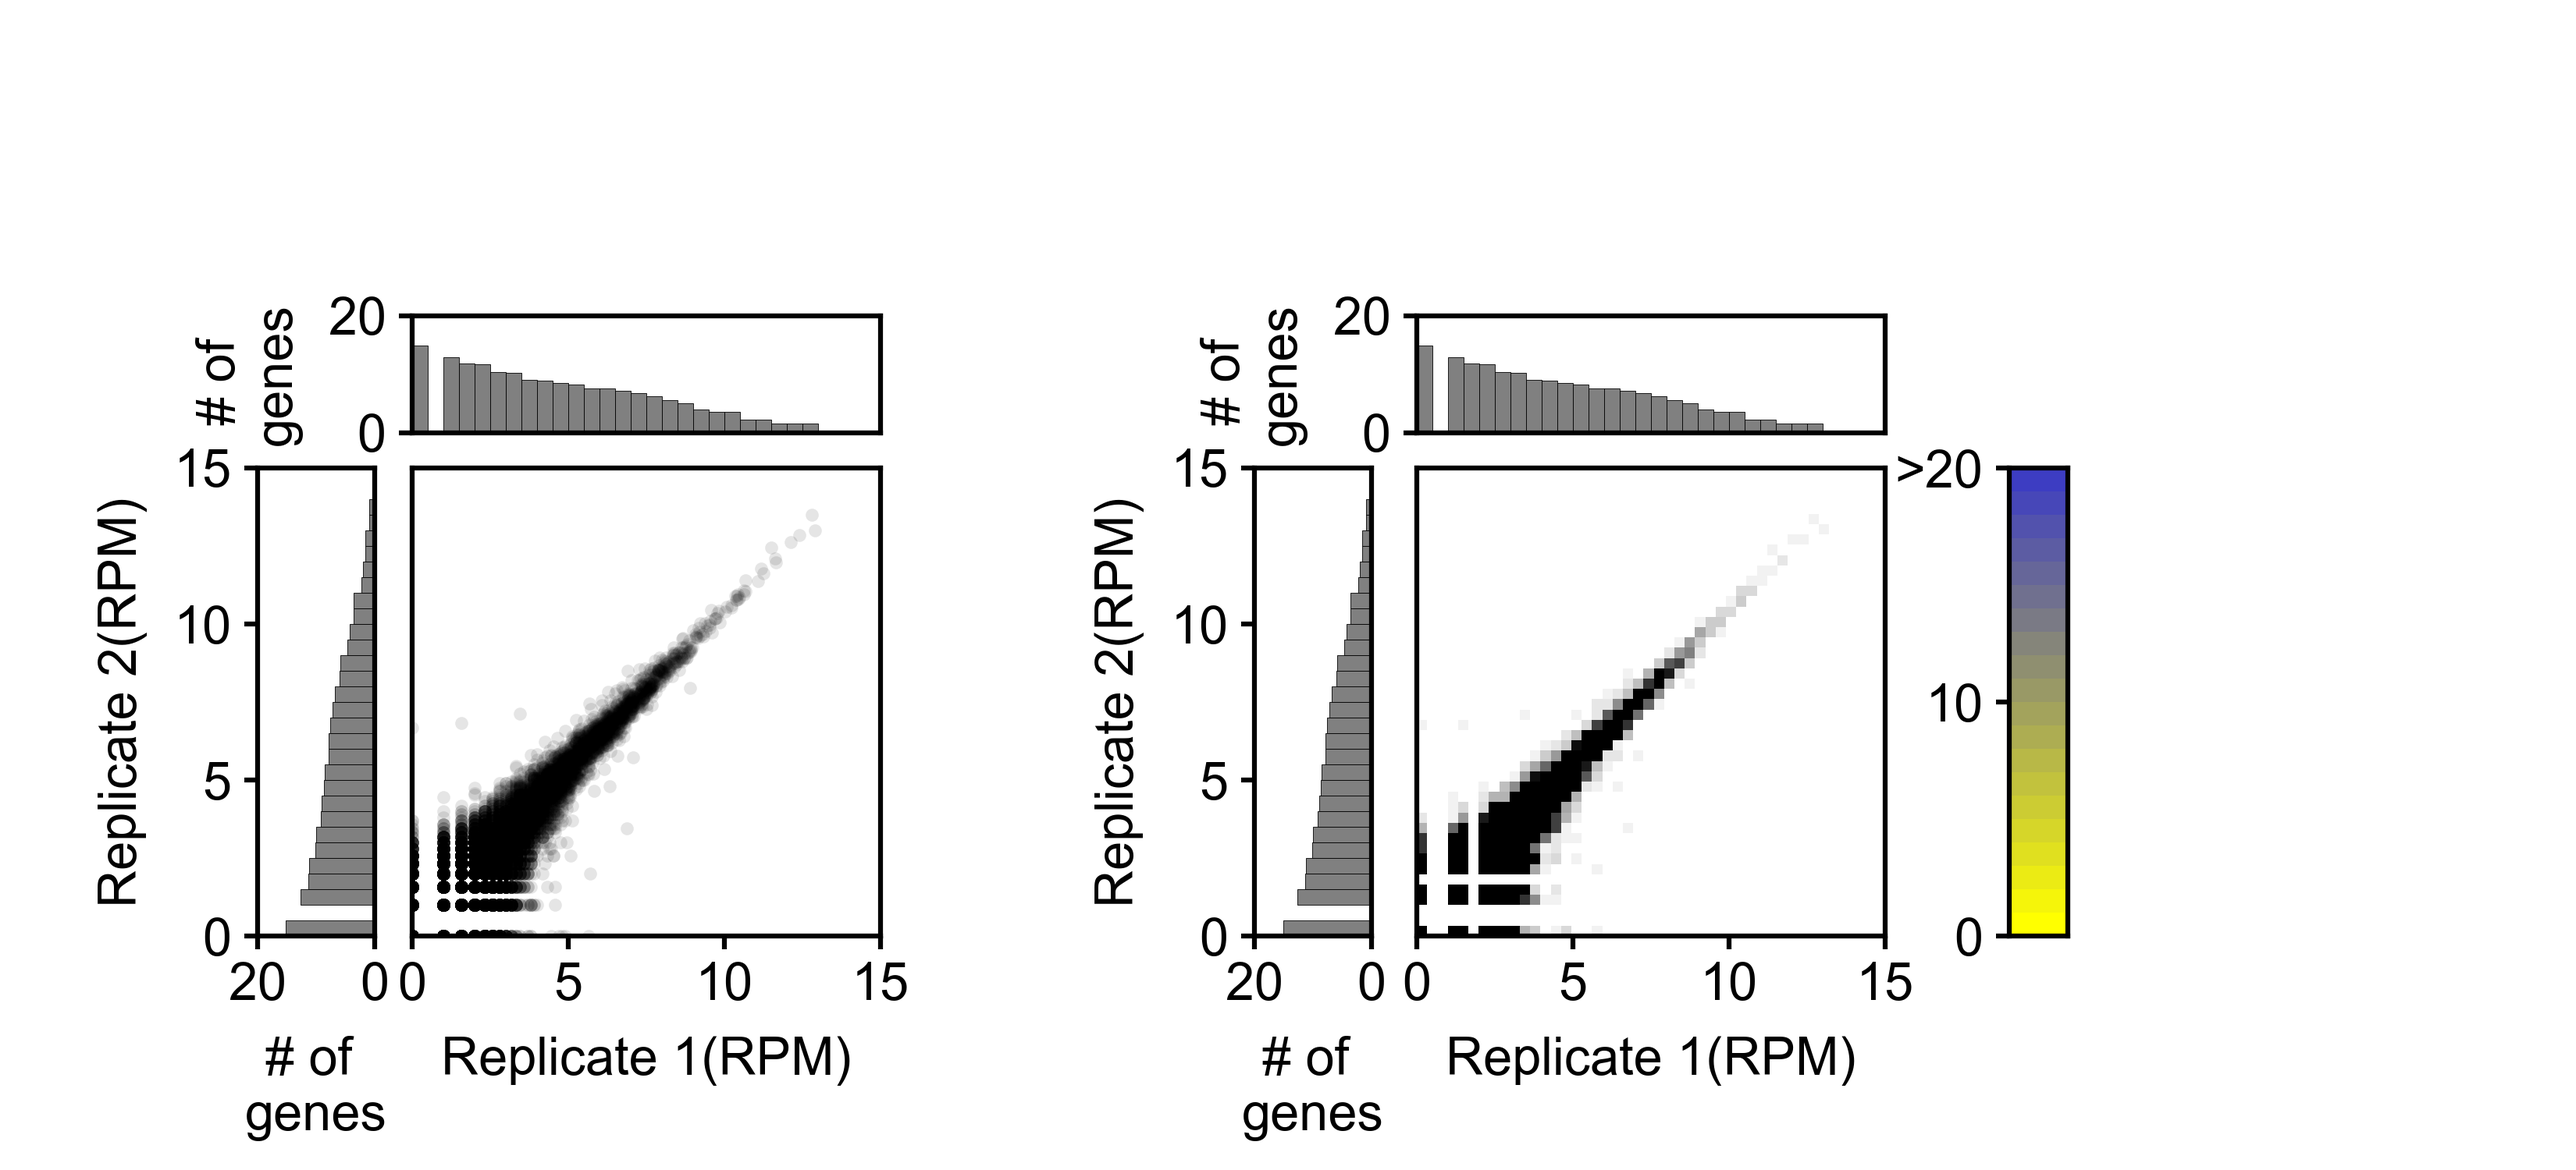
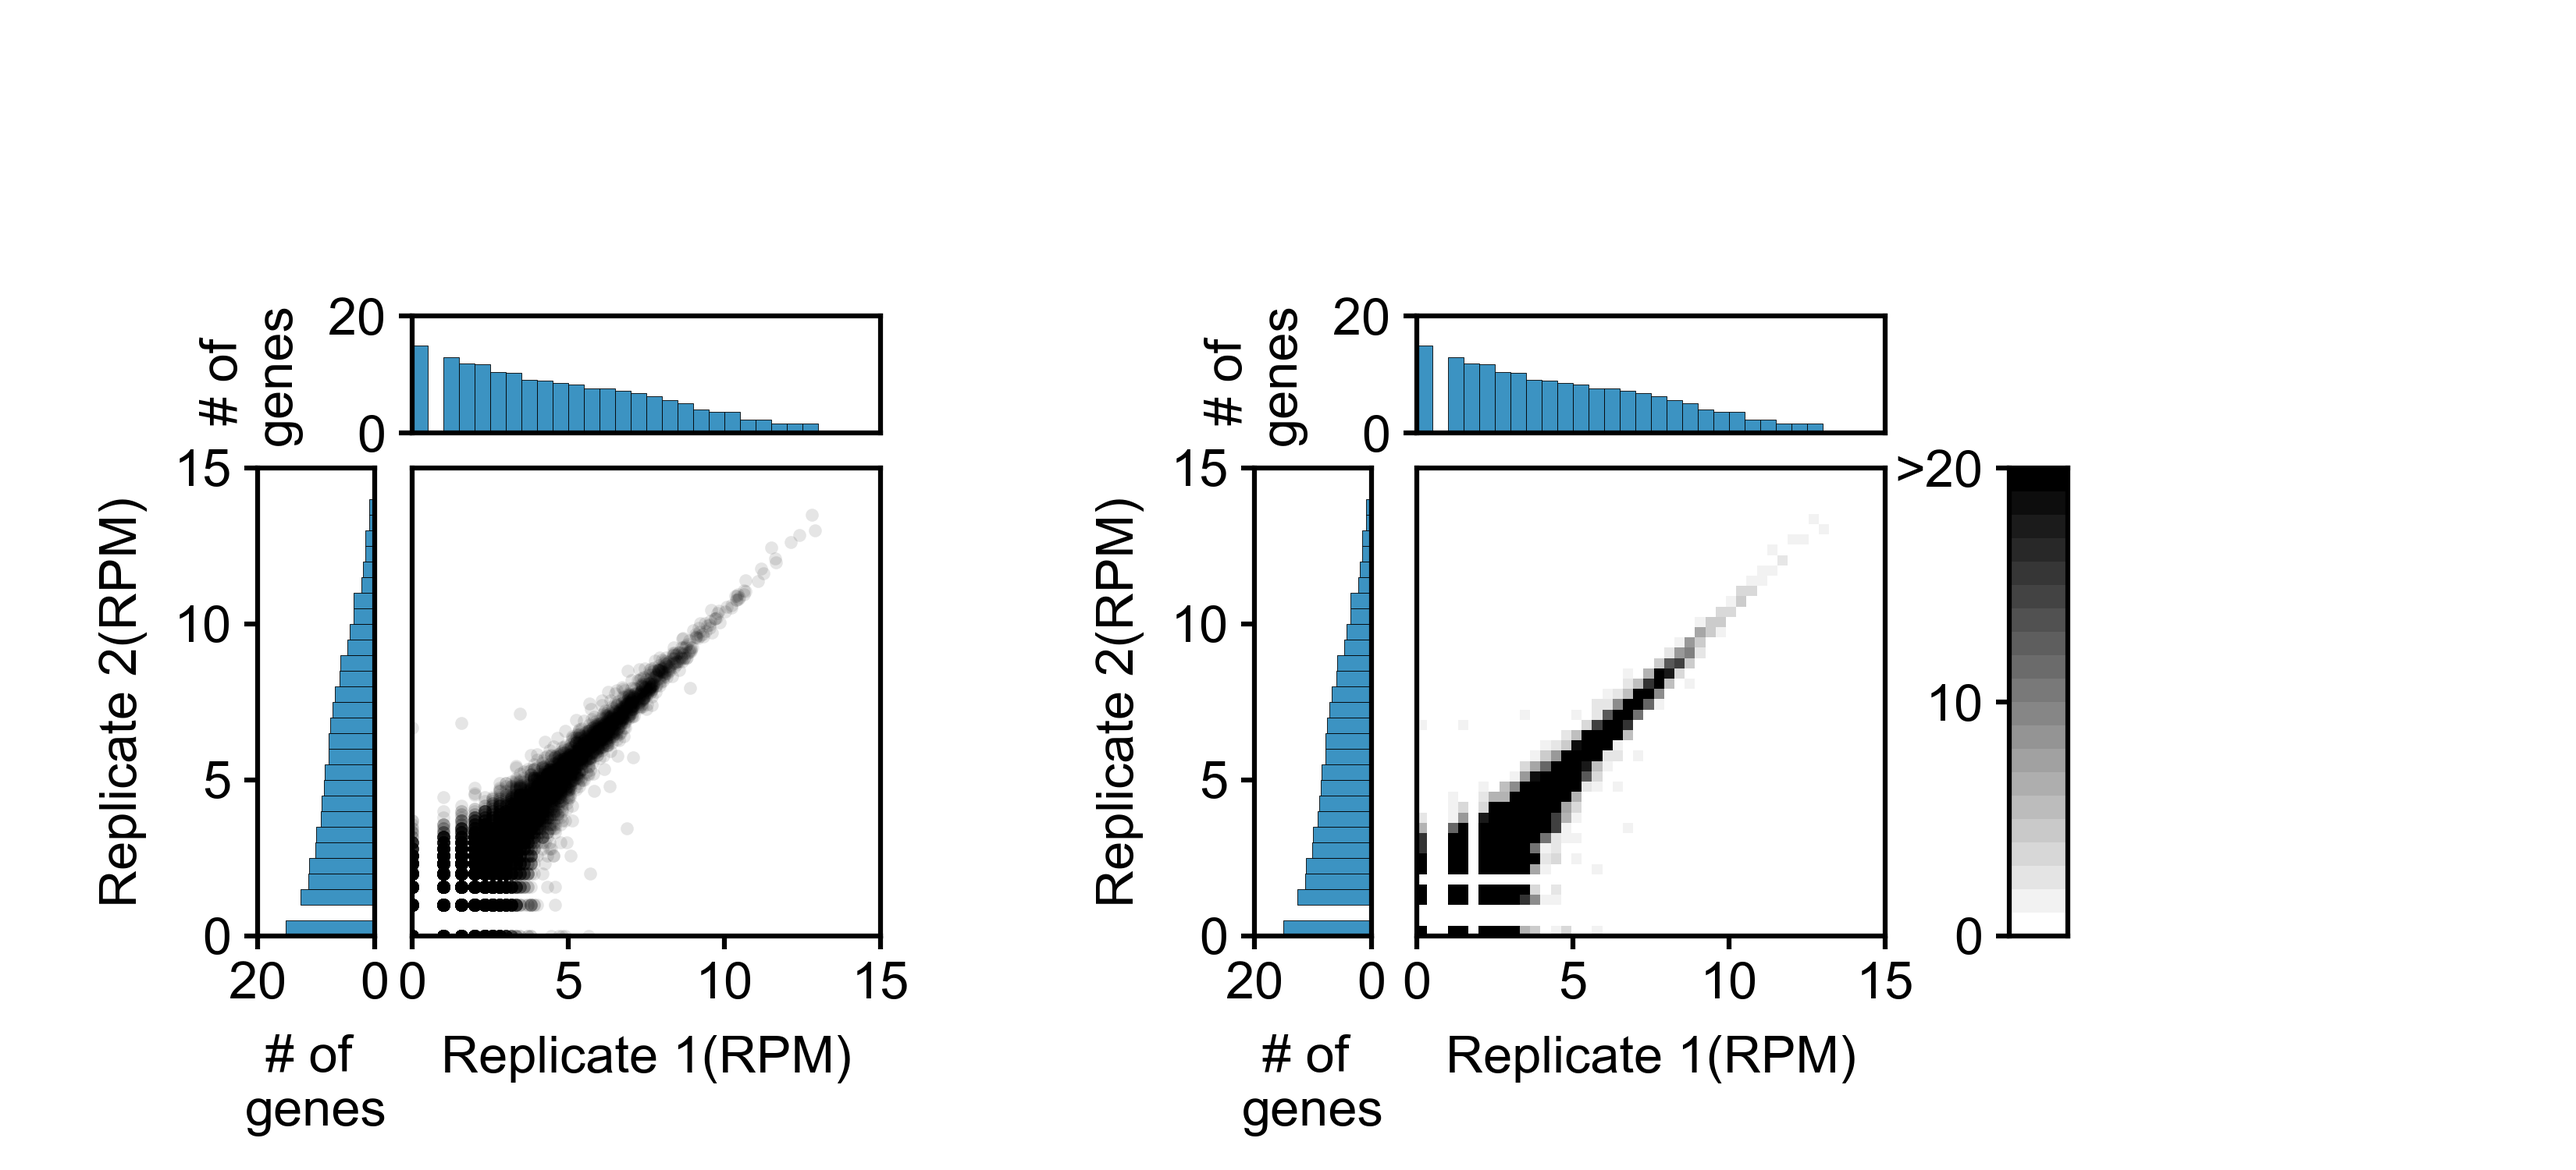
Add files via upload

diff --git a/scatter_heatmap/scatter_heatmap_program.py b/scatter_heatmap/scatter_heatmap_program.py
@@ -11,19 +11,64 @@
 #   modified to be run in Jupyter notebook. 
 #
 #   Program execution:
-#   python3 /Users/carlosarevalo/Desktop/scatter_heatmap_program.py \
-#       -i /Users/carlosarevalo/Downloads/test_input_data_1.txt \
-#       -o /Users/carlosarevalo/Downloads/scatter_heatmap_test.png \
-#       -s /Users/carlosarevalo/Downloads/stylesheet.mplstyle 
+#   python3 /Users/carevalo/Desktop/scatter_heatmap/scatter_heatmap_program.py \
+#       -i /Users/carevalo/Desktop/scatter_heatmap/test_input_data_1.txt \
+#       -o /Users/carevalo/Desktop/scatter_heatmap/scatter_heatmap_test.png \
+#       -s /Users/carevalo/Desktop/scatter_heatmap/stylesheet.mplstyle 
 #
 ################################################################################
 
-# Required modules
 import matplotlib.pyplot as plt 
 import matplotlib.patches as mplpatches
 import numpy as np 
+import warnings
 import argparse
 
+def general_flooring(number, floor):
+  return int(number/floor)*floor
+
+# heatmap function
+def heatmap(xList, yList, panel2, xmin, xmax, ymin, ymax, binsize):
+  white = (1, 1, 1)
+  black = (0, 0, 0)
+  R = np.linspace(white[0], black[0], 21)
+  B = np.linspace(white[1], black[1], 21)
+  G = np.linspace(white[2], black[2], 21)
+  dataDict = {}
+  for xBin in np.arange(xmin, xmax, binsize):
+    dataDict[xBin] = {}
+    for yBin in np.arange(ymin, ymax, binsize):
+      dataDict[xBin][yBin] = 0
+
+  for i in np.arange(0, len(xList), 1):
+    x = xList[i]
+    y = yList[i]
+    xFloored = general_flooring(x, binsize) # 7.9 becomes to 7
+    yFloored = general_flooring(y, binsize)
+    if xFloored in dataDict:
+      if yFloored in dataDict[xFloored]:
+        dataDict[xFloored][yFloored] += 1 # iterates up by 1
+
+  for xBin in np.arange(xmin, xmax, binsize):
+    for yBin in np.arange(ymin, ymax, binsize):
+      value = min(dataDict[xBin][yBin], 20)
+      color = (R[value], G[value], B[value])
+      rect = mplpatches.Rectangle((xBin, yBin), binsize, binsize,
+                                  facecolor = color, 
+                                  edgecolor = (0, 0, 0),
+                                  linewidth = 0)
+      panel2.add_patch(rect)
+
+  # Add heatmap scale
+  color_range = np.linspace(0, 1, 20)
+  print(color_range)
+  colors = [(1-i, 1-i, 1-i) for i in color_range]
+  for color in colors:
+    patch = mplpatches.Rectangle((0, colors.index(color) + 0), 1, 21, 
+                                linewidth = 0, 
+                                facecolor = color)
+    panel.add_patch(patch)
+                              
 # Make instances of an argument parser and define arguments
 parser = argparse.ArgumentParser()
 parser.add_argument("-i", "--input_file")
@@ -43,8 +88,8 @@ y_values=[]
 
 with open(inFile, "r") as inFile:
     for line in inFile.readlines():
-        splitline=line.strip().split("\t")
-        name=splitline[0]
+        splitline = line.strip().split("\t")
+        name = splitline[0]
         x_values.append(int(splitline[1]))
         y_values.append(int(splitline[2]))
     pass
@@ -53,89 +98,169 @@ x_vals=np.log2([x+1 for x in np.array(x_values)])
 y_vals=np.log2([y+1 for y in np.array(y_values)])
 
 # Define figure dimensions:
-figureHeight=2
-figureWidth=5
-
-# Generate a wide canvas of arbitrary size:
+figureHeight=2.5
+figureWidth=5.5
+# Generates a wide canvas of arbitrary size:
 plt.figure(figsize=(figureWidth, figureHeight)) 
 
 # Normalized panel size parameters:
-panelWidth=1/figureWidth
-panelHeight=1/figureHeight
-x_hist_width=panelWidth
-x_hist_height=(1/4)/figureHeight
-y_hist_width=(1/4)/figureWidth
-y_hist_height=panelHeight
+panelWidth = 1/figureWidth #*1.5
+panelHeight = 1/figureHeight #*1.5
+x_hist_width = panelWidth
+x_hist_height = (1/4)/figureHeight # *1.5
+y_hist_width = (1/4)/figureWidth# *1.5
+y_hist_height = panelHeight
 
-# Make sure panels do not overlap: Left, bottom, width, height
-panel1 = plt.axes([0.14, 0.15, panelWidth, panelHeight]) 
-x_panel1 = plt.axes([0.14, 0.685, x_hist_width, x_hist_height]) 
-y_panel1 = plt.axes([0.076, 0.15, y_hist_width, y_hist_height])  
+# Makes sure panels do not overlap: Left, bottom, width, height   
+panel1 = plt.axes([0.16, 0.2, panelWidth, panelHeight]) 
+panel2 = plt.axes([0.55, 0.2, panelWidth, panelHeight])
+# Top panels:
+x_panel1 = plt.axes([0.16, 0.63, x_hist_width, x_hist_height]) 
+x_panel2 = plt.axes([0.55, 0.63, x_hist_width, x_hist_height])
+# Side panels:
+y_panel1 = plt.axes([0.1, 0.2, y_hist_width, y_hist_height])  
+y_panel2 = plt.axes([0.487, 0.2, y_hist_width, y_hist_height]) 
+# scale panel
+panel = plt.axes([0.78, 0.2, y_hist_width/2, y_hist_height]) 
+
 
 # Panel 1 labels:
 panel1.tick_params(bottom=True, labelbottom=True,
                    left=False, labelleft=False,
                    right=False, labelright=False,
                    top=False, labeltop=False)
-
 x_panel1.tick_params(bottom=False, labelbottom=False,
                     left=True, labelleft=True,
                     right=False, labelright=False,
                     top=False, labeltop=False)
-
 y_panel1.tick_params(bottom=True, labelbottom=True,
                     left=True, labelleft=True,
                     right=False, labelright=False,
                     top=False, labeltop=False)
+panel2.tick_params(bottom=True, labelbottom=True,
+                   left=False, labelleft=False,
+                   right=False, labelright=False,
+                   top=False, labeltop=False)
+x_panel2.tick_params(bottom=False, labelbottom=False,
+                    left=True, labelleft=True,
+                    right=False, labelright=False,
+                    top=False, labeltop=False)
+y_panel2.tick_params(bottom=True, labelbottom=True,
+                    left=True, labelleft=True,
+                    right=False, labelright=False,
+                    top=False, labeltop=False)
+panel.tick_params(bottom=False, labelbottom=True,
+                  left=True, labelleft=True,
+                  right=False, labelright=False,
+                  top=False, labeltop=False)
 
 # Panel 1 scatter plot:
-panel1.plot(x_vals,y_vals,
-    marker='o',
-    markerfacecolor=(0,0,0),
-    markeredgecolor=(0,0,0),
-    markersize=1.5,
-    markeredgewidth=0,
-    linewidth=0,
-    alpha=0.1)    
-panel1.set_xlim(0,max(x_vals))
-panel1.set_ylim(0,max(y_vals))
+panel1.plot(x_vals, y_vals,
+    marker = 'o',
+    markerfacecolor = (0, 0, 0),
+    markeredgecolor = (0, 0, 0),
+    markersize = 2,
+    markeredgewidth = 0,
+    linewidth = 0,
+    alpha = 0.1) 
+
+panel1.set_xlim(0, max(x_vals))
+panel1.set_ylim(0, max(y_vals))
 
 # Add histograms to panel group 1:
-x_hist_vals, x_hist_bins = np.histogram(x_vals, np.arange(0,15,0.5))
-y_hist_vals, y_hist_bins = np.histogram(y_vals, np.arange(0,15,0.5))
+x_hist_vals, x_hist_bins = np.histogram(x_vals, np.arange(0, 15, 0.5))
+y_hist_vals, y_hist_bins = np.histogram(y_vals, np.arange(0, 15, 0.5))
 
-for i in np.arange(0,len(x_hist_vals),1):
-    x_left=i/2 
-    x_bottom=0
-    x_width=1/2 
-    x_height=np.log2(x_hist_vals[i]+1)
-    y_left=0
-    y_bottom=i/2
-    y_width=np.log2(y_hist_vals[i]+1)
-    y_height=0.5
-    rect1 = mplpatches.Rectangle((x_left,x_bottom),x_width,x_height,
-                                  facecolor="grey", 
-                                  edgecolor=(0,0,0),
-                                  linewidth=0.1)
-    rect2 = mplpatches.Rectangle((y_left,y_bottom),y_width,y_height,
-                                  facecolor="grey", 
-                                  edgecolor=(0,0,0),
-                                  linewidth=0.1)
+# plot histograms
+for i in np.arange(0, len(x_hist_vals), 1):
+    x_left = i/2 
+    x_bottom = 0
+    x_width = 1/2 
+    x_height = np.log2(x_hist_vals[i] + 1)
+    y_left = 0
+    y_bottom = i/2
+    y_width = np.log2(y_hist_vals[i] + 1)
+    y_height = 0.5
+    rect1=mplpatches.Rectangle((x_left, x_bottom), x_width, x_height,
+                                  facecolor = "#3C93C2", #"grey", 
+                                  edgecolor = (0, 0, 0),
+                                  linewidth = 0.1)
+    rect2=mplpatches.Rectangle((y_left, y_bottom), y_width, y_height,
+                                  facecolor = "#3C93C2", #"grey", 
+                                  edgecolor = (0,0,0),
+                                  linewidth = 0.1)
     x_panel1.add_patch(rect1)
     y_panel1.add_patch(rect2)
 
+for i in np.arange(0, len(x_hist_vals), 1):
+    x_left = i/2 
+    x_bottom = 0
+    x_width = 1/2 
+    x_height = np.log2(x_hist_vals[i] + 1)
+    y_left = 0
+    y_bottom = i/2
+    y_width = np.log2(y_hist_vals[i]+1)
+    y_height = 0.5
+    rect1 = mplpatches.Rectangle((x_left, x_bottom), x_width, x_height,
+                                  facecolor = "#3C93C2", #"grey", 
+                                  edgecolor = (0, 0, 0),
+                                  linewidth = 0.1)
+    rect2 = mplpatches.Rectangle((y_left, y_bottom), y_width, y_height,
+                                  facecolor = "#3C93C2", #"grey", 
+                                  edgecolor = (0,0,0),
+                                  linewidth = 0.1)
+    x_panel2.add_patch(rect1)
+    y_panel2.add_patch(rect2)
+
+# Plot heatmap: xList, yList, panel, xmin, xmax, ymin, ymax, binsize
+heatmap(x_vals, y_vals, panel2, 0, 15, 0, 15, 0.33)
+panel2.set_xlim(0, max(x_vals))
+panel2.set_ylim(0, max(y_vals))
+
 # Panel 1 group labels:
-panel1.set_xlim(0,15)
-panel1.set_ylim(0,15)
-panel1.set_xticks(np.arange(0,16,5))
-x_panel1.set_ylim(0,20) 
-x_panel1.set_xlim(0,15)
+panel1.set_xlim(0, 15)
+panel1.set_ylim(0, 15)
+panel1.set_xticks(np.arange(0, 16, 5))
+x_panel1.set_ylim(0, 20) 
+x_panel1.set_xlim(0, 15)
+
 # x_panel1.set_yticks(np.arange(20,-1,20))
-y_panel1.set_ylim(0,15)
-y_panel1.set_xlim(20,0)
-y_panel1.set_yticks(np.arange(0,16,5))
+y_panel1.set_ylim(0, 15)
+y_panel1.set_xlim(20, 0)
+y_panel1.set_yticks(np.arange(0, 16, 5))
+
+# Panel 2 group labels:
+panel2.set_xlim(0, 15)
+panel2.set_ylim(0, 15)
+panel2.set_xticks(np.arange(0, 16, 5))
+x_panel2.set_ylim(0, 20) 
+x_panel2.set_xlim(0, 15)
+y_panel2.set_ylim(0, 15)
+y_panel2.set_xlim(20, 0)
+y_panel2.set_yticks(np.arange(0, 16, 5))
+
+# Panel 1 axis titles
+panel1.set_xlabel("Replicate 1(RPM)")
+y_panel1.set_ylabel("Replicate 2(RPM)")
+y_panel1.set_xlabel("# of \ngenes")
+x_panel1.set_ylabel("# of \ngenes")
+
+# Panel 2 axis titles
+panel2.set_xlabel("Replicate 1(RPM)")
+y_panel2.set_ylabel("Replicate 2(RPM)")
+y_panel2.set_xlabel("# of \ngenes")
+x_panel2.set_ylabel("# of \ngenes")
+
+# scale panel
+warnings.filterwarnings("ignore")
+ticks = [x for x in range(0, 20, 10)]
+ticks.append(">20")
+
+# print(ticks) 
+panel.set_ylim(0, 20.00000001, 10)
+panel.set_yticklabels(ticks) #np.arange(0, 21, 10))
+panel.set_xticks([])
 
 # Save figure
-plt.savefig(outFile,dpi=600) 
-
+plt.savefig(outFile, dpi=600) 
 
